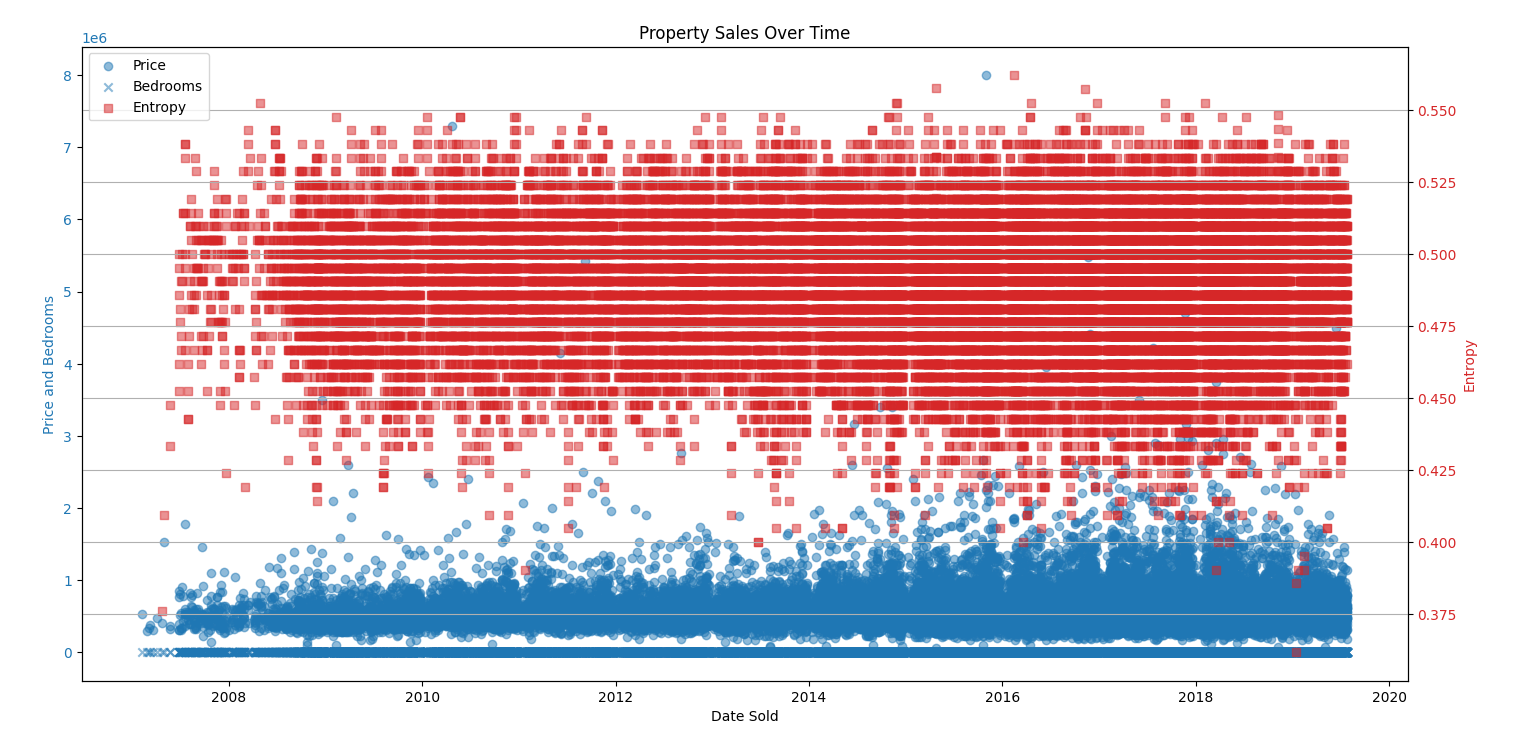
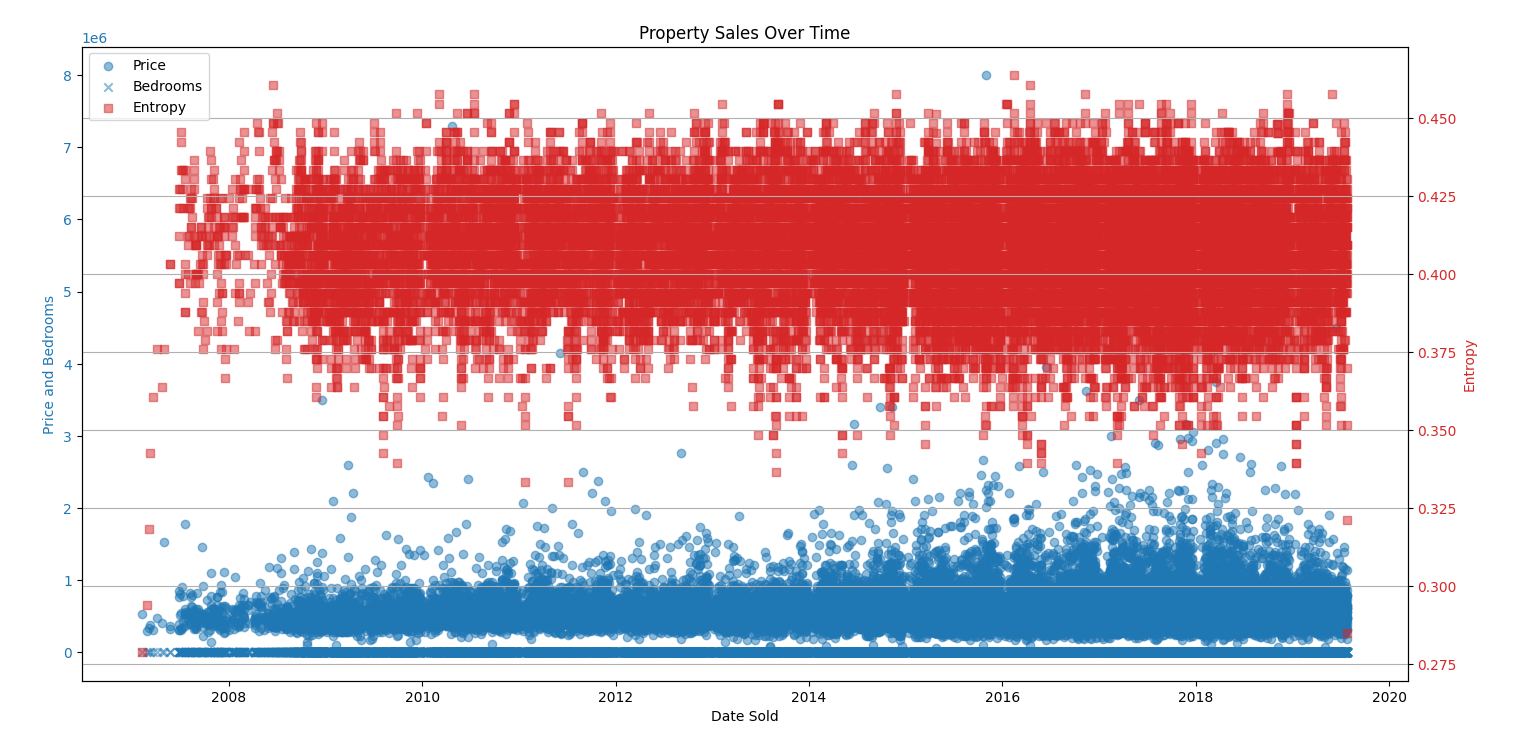
Code fixes and documentation fixes.

diff --git a/ts_entropy_analysis/data_analyzer.py b/ts_entropy_analysis/data_analyzer.py
@@ -18,7 +18,12 @@ class Analyzer:
         :return: yields each entropy value consecutively.  This is probably not all that useful.
         """
 
-        padded_for_convolution_data = [data[0]] * data_smoothing + data + [data[-1]] * data_smoothing
+        def get_index(index: int):
+            if index<0:
+                return data[0]
+            if index >= len(data):
+                return data[-1]
+            return data[index]
 
         def get_data(data_object):
             if data_func is None:
@@ -35,10 +40,10 @@ class Analyzer:
             except AttributeError:
                 raise ValueError(f"{entropy_out} not foun don object type: {type(data_object)}")
 
-        for i in range(data_smoothing, len(data) - data_smoothing):
+        for i in range(0, len(data)):
             convolution_range = []
-            for i in range(i - data_smoothing, i + data_smoothing + 1):
-                convolution_range.append(get_data(padded_for_convolution_data[i]))
+            for ci in range(i - data_smoothing, i + data_smoothing + 1):
+                convolution_range.append(get_data(get_index(ci)))
 
             to_compress = self.ingest.ingest_list_with_pickle(convolution_range)
             entropy = self.entropy.compress_and_calculate_ratio(to_compress)

diff --git a/README.md b/README.md
@@ -48,11 +48,13 @@ The entropy graph here is a little less useful, it does show seasonal variation 
 
 Let's try this again, with a much larger sliding window size.  The new dataset is more complicated, it makes sense that we would want to be able to correlate more data together for each datapoint:
 
-With a larger sliding window, the algorithm immediately finds the 2008 housing crash.  Interestingly it manifests as LESS entropy in the dataset, and so the entropy graph has a minimum over that time.
-
+With a larger sliding window, the algorithm shows a higher average entropy in data from 2008, corresponding nicely with the financial crisis.
 ![Gzip found 2008](readme_assets/housing-more-window.png)
 
 There is something else interesting around 2012.  As the housing market picked back up, we see two distinct "groups" form in the entropy.  I suspect the algorithm has identified how some markets recovered differently than others here, and it has left an artifact in the entropy plot there.
 ![What happened in 2012?  Different markets recovered differently?](readme_assets/housing-split-recovery.png)
 
-These examples show how gzip entropy analysis can take arbitrary data across more than 2 dimensions, and reduce it to a single dimension (how interesting is the data).  Areas of the entropy chart that look interesting in 2 dimensions can represent areas in a complex dataset that are interesting across arbitrary numbers of dimensions.
+The algorithm also shows high entropy in the dataset around Christmas.  From a data perspective at least, Christmas is a chaotic time for the market where lots changes quickly.
+![christmas](readme_assets/housing-christmas.png)
+
+Ultimately, this method of analysis is not going to give specific insights into any dataset.  The algorithm doesn't know anything about the data.  But I think it can be used as a stepping stone to finding areas of interest.  It's able to find areas that are more interesting, with very little effort in terms of data normalization.
